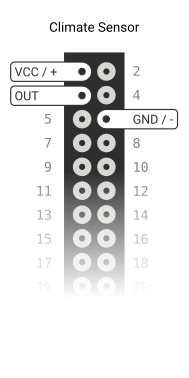
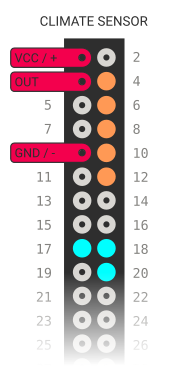
Documentation edits

diff --git a/docs/connect.md b/docs/connect.md
@@ -11,14 +11,13 @@ You may connect the peripherals using any configuration you wish, however, the F
 
 #### Moisture Probe
 
-Connect the TE215 moisture probe using the following GPIO pin configuration.
-- 3v3 Power (Physical pin 1)
-- Ground (Physical pin 6)
-- Data (Physical pin 13)
+|GPIO|Directions|
+| ------------- | ------------- |
+|![Moistrure Probe](img/moisture_pinout.png?raw=true) | **Moisture Probe**<br/> Connect the TE215 moisture probe using the following GPIO pin configuration:<br/>- VCC / + (3v3 Power - Physical pin 17)<br/>- Ground / - (Physical pin 20)<br/>- Out (Physical pin 18)|
 
 #### Relays
 
-The FruxePi uses a 5V 3-channel relay to control the lights, fans and water pump, which are connected to their respective AC power plug. Relays can be connected in any configuration (1/2/3 channel).    
+The FruxePi uses a 5V 3-channel relay to control the lights, fans and water pump, which are connected to their respective AC power plug. Relays can be connected in any configuration (1/2/3 channel.    
 
 For many, this is step arguably the trickiest part of setting up the FruxePi. A power strip controlled by the Raspberry Pi is a common project found online and many tutorials are available which can offer guidance on how to wire a relay power outlet appropriately. A few tutorials we found particularly helpful were:
 
@@ -26,23 +25,9 @@ For many, this is step arguably the trickiest part of setting up the FruxePi. A 
 
 > It goes without saying, but for some reason we still have it say it. Please be careful and exercise the utmost caution when working with high voltage electricity. Err on the side of caution and get some help if you're confused or lost in the process. Let's all be safe people! 
 
-**Lights**
-</br>Connect the fan relay using the following GPIO pin configuration.
-- 3v3 Power (Physical pin 1)
-- Ground (Physical pin 6)
-- Data (Physical pin 13)
-
-**Fans**
-</br>Connect the fan relay using the following GPIO pin configuration.
-- 3v3 Power (Physical pin 1)
-- Ground (Physical pin 6)
-- Data (Physical pin 13)
-
-**Pump**
-</br>Connect the pump relay using the following GPIO pin configuration.
-- 3v3 Power (Physical pin 1)
-- Ground (Physical pin 6)
-- Data (Physical pin 13)
+|GPIO|Directions|
+| ------------- | ------------- |
+|![Relay Modules](img/relay_pinout.png?raw=true) | **Relay Modules**<br/> Connect the relay module using the following GPIO pin configuration:<br/>- VCC / + (5v Power - Physical pin 4)<br/>- Ground / - (Physical pin 6)<br/>- CH1 (Lights) (Physical pin 8) <br/>- CH2 (Fans) (Physical pin 10) <br/>- CH3 (Pumps) (Physical pin 12)|
 
 ---
 
